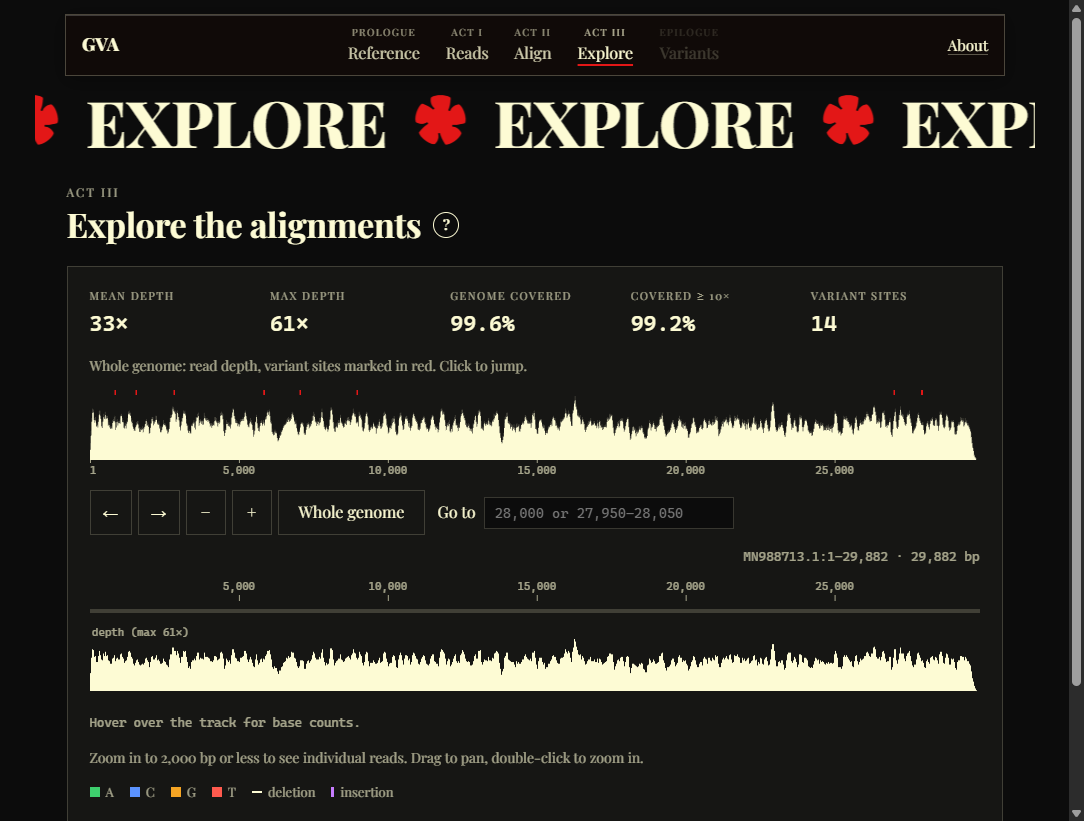
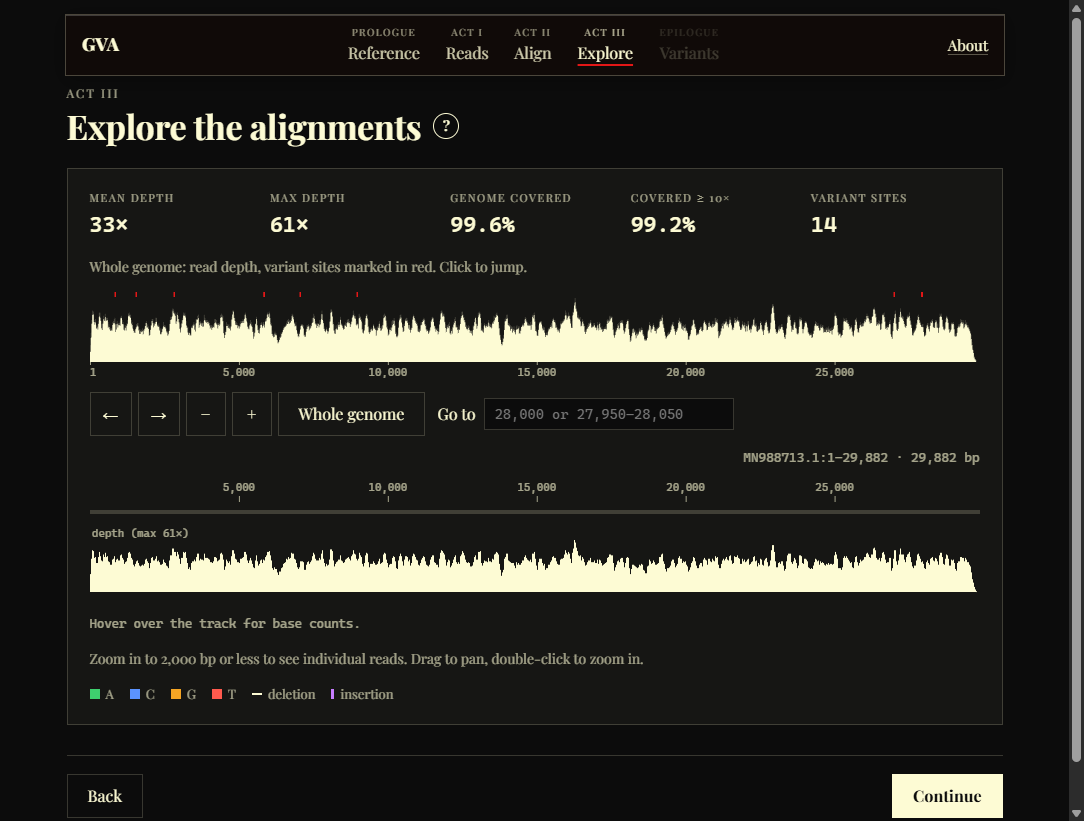
README: refresh app screenshots and describe the overview navigation

diff --git a/README.md b/README.md
@@ -24,8 +24,8 @@ Get `GenomeVariantAligner-Setup-<version>.exe` from [Releases](https://github.co
 The app walks you through five pages: pick a reference (SARS-CoV-2 is built in), pick a read set (1K, 10K or 1M simulated reads, or your own FASTA/FASTQ, optionally gzipped), press **Align reads**, then explore the result. You get:
 
 - read counts and a SAM file you can save;
-- read depth across the genome, with variant sites marked;
-- a zoomable view of the reference, depth and individual reads;
+- read depth across the genome, with variant sites marked; when you zoom in, the part you're viewing stays highlighted and the rest is dimmed;
+- a zoomable view of the reference, depth and individual reads that you can drag, or slide along with the arrow buttons;
 - a table of variant sites: positions where at least 20% of at least 10 reads differ from the reference;
 - CSV exports of the variants and per-base coverage.
 
